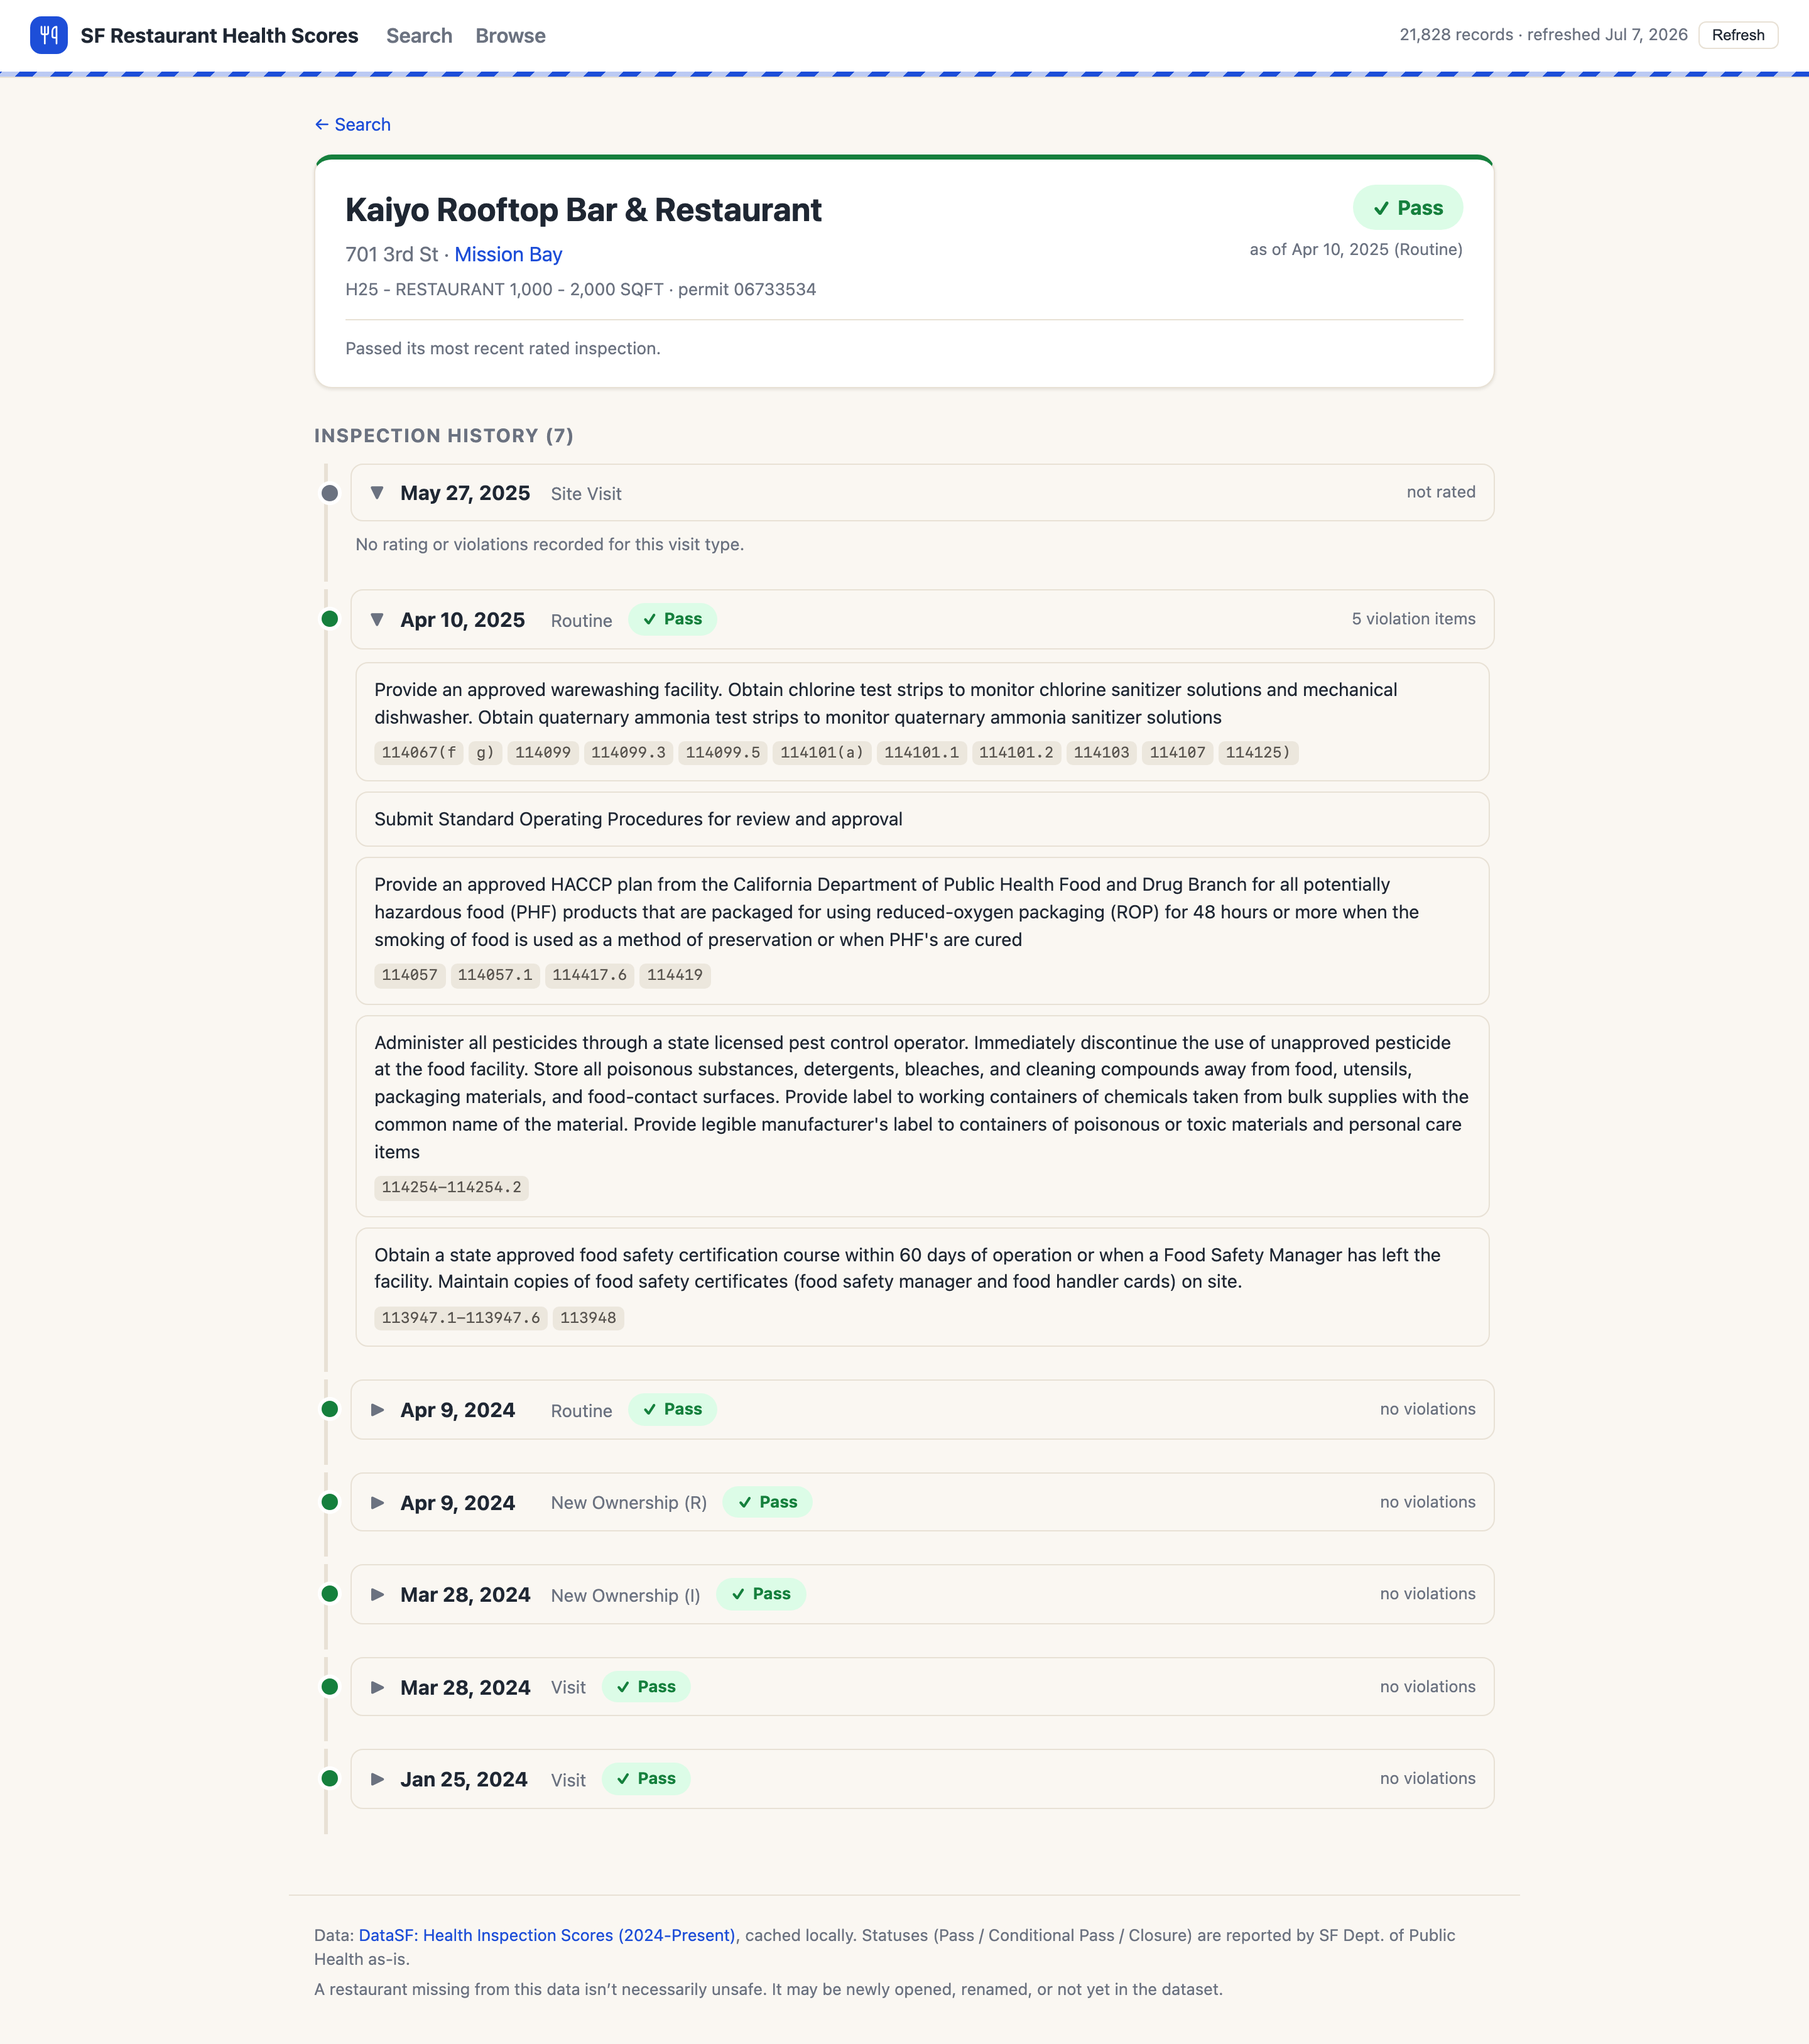
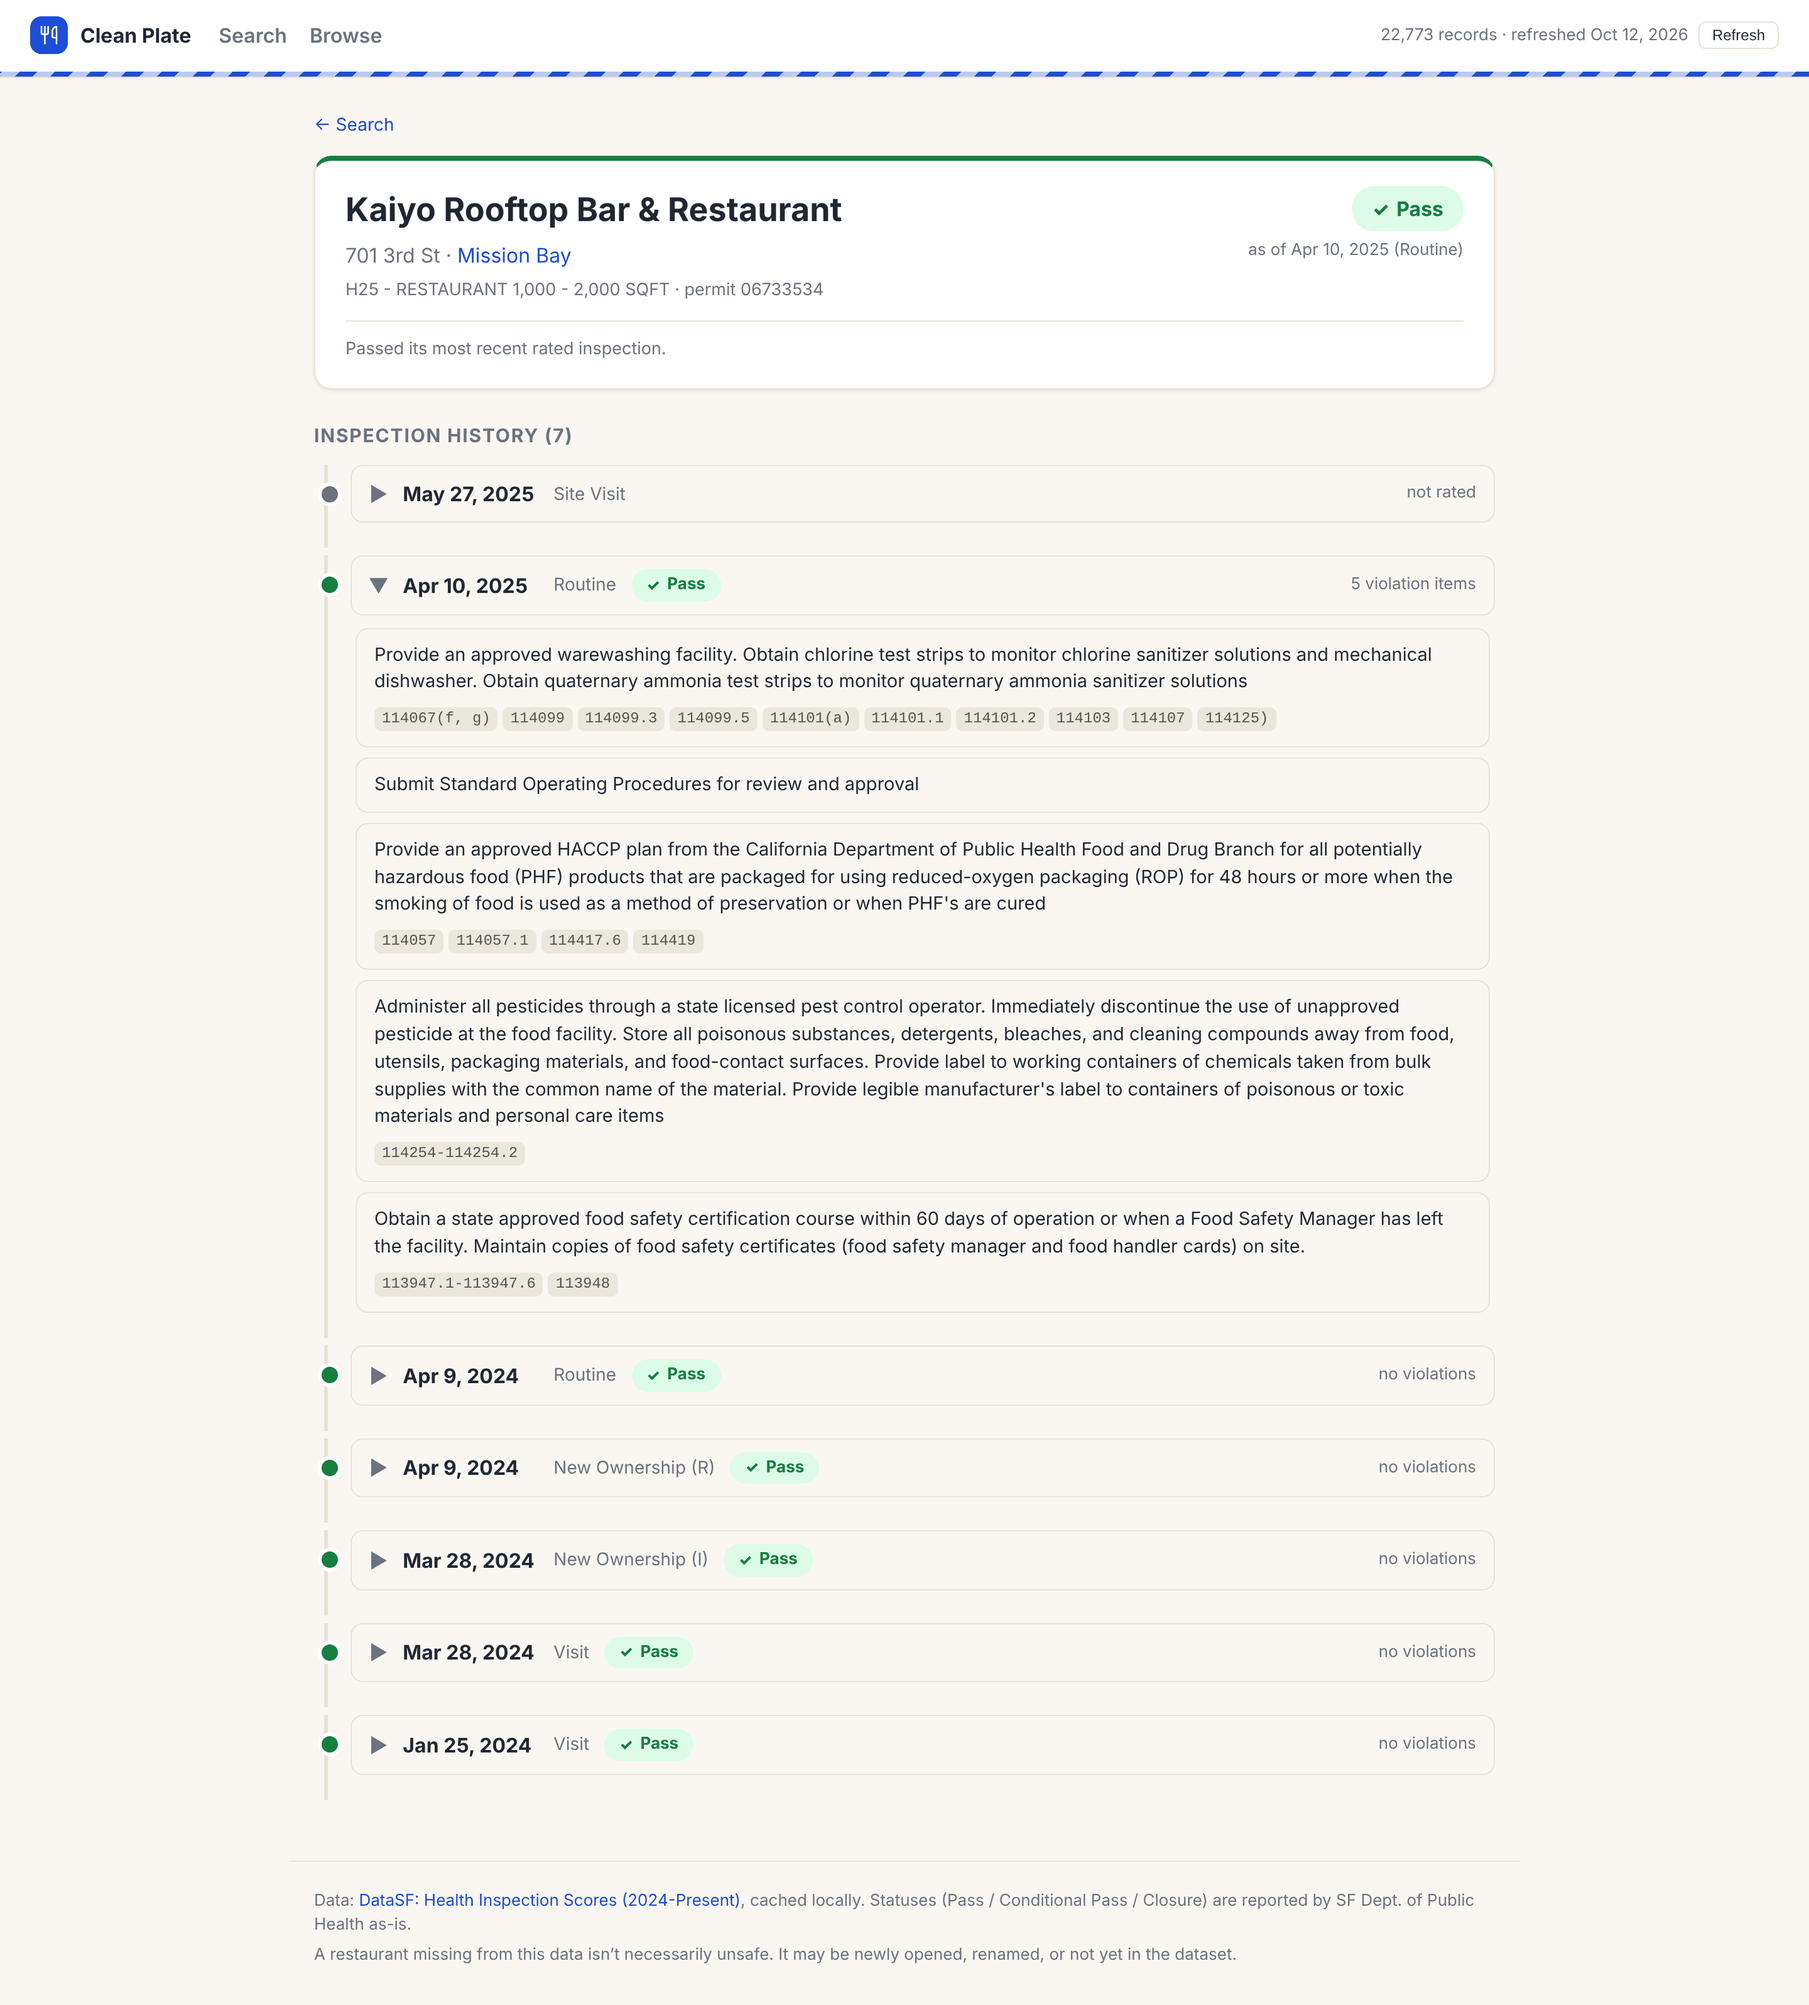
Real screenshot, surname casing, drop unused screenshots
- Recapture docs/screenshots/restaurant-detail-kaiyo.png from live
  DataSF data (22,773 records, refreshed 2026-10-12) with the current UI.
- Delete the seven screenshots the README no longer references; the
  portfolio links to the repo, not to these files.
- Title case restores Mc and O'/D' prefixes: McDonald's, O'Reilly's,
  Fior D'Italia, while D's Corner and Brandy Ho's stay as they are.
- Neighborhood dropdown counts get thousands separators.

Claude-Session: https://claude.ai/code/session_01QhpC45F2awqiaBwbyXP8wf

diff --git a/static/app.js b/static/app.js
@@ -28,10 +28,17 @@ function fmtDate(iso) {
   return d.toLocaleDateString("en-US", { year: "numeric", month: "short", day: "numeric" });
 }
 /* DataSF names are upper case. Capitalize after spaces and separators only,
-   so "JOE'S" becomes "Joe's" and "CAFÉ ÉCLAIR" becomes "Café Éclair". */
+   so "JOE'S" becomes "Joe's" and "CAFÉ ÉCLAIR" becomes "Café Éclair", then
+   restore surname prefixes: "McDonald's", "O'Reilly's", "Fior D'Italia". */
+const WORD_START = "(^|[\\s\\-\\/(&.])";
+const FIRST_LETTER = new RegExp(WORD_START + "(\\p{L})", "gu");
+const MC_PREFIX = new RegExp(WORD_START + "Mc(\\p{L})", "gu");
+const ELIDED_PREFIX = new RegExp(WORD_START + "([OD])'(\\p{L})(?=\\p{L})", "gu");
 function titleCase(s) {
   return String(s || "").replace(/\s+/g, " ").trim().toLowerCase()
-    .replace(/(^|[\s\-\/(&.])(\p{L})/gu, (_, sep, c) => sep + c.toUpperCase());
+    .replace(FIRST_LETTER, (_, sep, c) => sep + c.toUpperCase())
+    .replace(MC_PREFIX, (_, sep, c) => sep + "Mc" + c.toUpperCase())
+    .replace(ELIDED_PREFIX, (_, sep, p, c) => sep + p + "'" + c.toUpperCase());
 }
 function plural(n, one, many) {
   return `${Number(n).toLocaleString()} ${n === 1 ? one : many}`;
@@ -458,7 +465,7 @@ async function viewBrowse(neighborhood) {
       .forEach(h => {
         const o = document.createElement("option");
         o.value = h.neighborhood;
-        o.textContent = `${h.neighborhood} (${h.restaurants})`;
+        o.textContent = `${h.neighborhood} (${h.restaurants.toLocaleString()})`;
         $hood.appendChild(o);
       });
     $hood.value = browseState.neighborhood;
